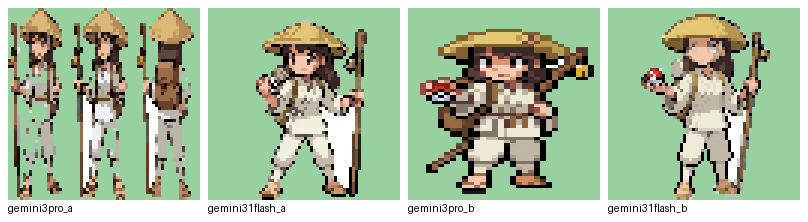
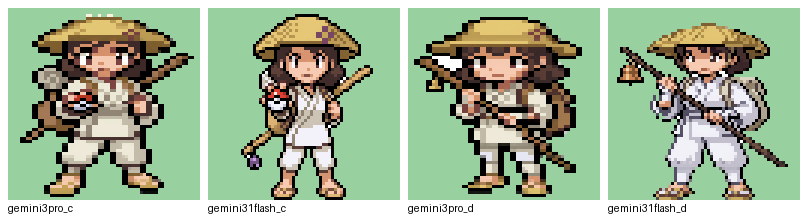
Ibuki's and the male pilgrim's sprites in the game; female pilgrim drafts round 2
Overworld: OBJ_EVENT_GFX_EIEN_IBUKI, _PILGRIM_M and _PILGRIM_F (recolored
megapack sheets, converted by tools/eien_npcs/convert.py; adding them
regrouped the four shared NPC palettes, with no visible change to the
other characters). Battle: TRAINER_PIC_EIEN_IBUKI and _PILGRIM_M (AI
drafts). Ibuki at the falls and in the gym, Daichi, Shizuka and the gym
guide, and Route 2's male pilgrims use them. Credits added. A second
round of female pilgrim battle drafts awaits a pick.

Claude-Session: https://claude.ai/code/session_01KEfQ3687BBFMv8bczkVuAH

diff --git a/src/data/object_events/object_event_graphics_info.h b/src/data/object_events/object_event_graphics_info.h
@@ -7248,7 +7248,7 @@ const struct ObjectEventGraphicsInfo gObjectEventGraphicsInfo_EienHaru = {
 // trainer_BIRDKEEPER.png (Bird Keeper: Spherical Ice)
 const struct ObjectEventGraphicsInfo gObjectEventGraphicsInfo_EienAkira = {
     .tileTag = TAG_NONE,
-    .paletteTag = OBJ_EVENT_PAL_TAG_EIEN_NPC_3,
+    .paletteTag = OBJ_EVENT_PAL_TAG_EIEN_NPC_4,
     .reflectionPaletteTag = OBJ_EVENT_PAL_TAG_NONE,
     .size = 256,
     .width = 16,
@@ -7267,7 +7267,7 @@ const struct ObjectEventGraphicsInfo gObjectEventGraphicsInfo_EienAkira = {
 // trainer_YOUNGCOUPLE_F.png (Young Couple: Kalarie)
 const struct ObjectEventGraphicsInfo gObjectEventGraphicsInfo_EienNami = {
     .tileTag = TAG_NONE,
-    .paletteTag = OBJ_EVENT_PAL_TAG_EIEN_NPC_4,
+    .paletteTag = OBJ_EVENT_PAL_TAG_EIEN_NPC_3,
     .reflectionPaletteTag = OBJ_EVENT_PAL_TAG_NONE,
     .size = 256,
     .width = 16,
@@ -7362,7 +7362,7 @@ const struct ObjectEventGraphicsInfo gObjectEventGraphicsInfo_EienFisherman = {
 // trainer_SAILOR.png (HGSS OWs in FR style: Delta231, Mimi, M.vit, Kimoras)
 const struct ObjectEventGraphicsInfo gObjectEventGraphicsInfo_EienSailor = {
     .tileTag = TAG_NONE,
-    .paletteTag = OBJ_EVENT_PAL_TAG_EIEN_NPC_3,
+    .paletteTag = OBJ_EVENT_PAL_TAG_EIEN_NPC_2,
     .reflectionPaletteTag = OBJ_EVENT_PAL_TAG_NONE,
     .size = 256,
     .width = 16,
@@ -7419,7 +7419,7 @@ const struct ObjectEventGraphicsInfo gObjectEventGraphicsInfo_EienSchoolboy = {
 // trainer_ACETRAINERSNOW_M.png (DPPt NPCs: artist not named in the pack readme)
 const struct ObjectEventGraphicsInfo gObjectEventGraphicsInfo_EienSnowTrainer = {
     .tileTag = TAG_NONE,
-    .paletteTag = OBJ_EVENT_PAL_TAG_EIEN_NPC_3,
+    .paletteTag = OBJ_EVENT_PAL_TAG_EIEN_NPC_2,
     .reflectionPaletteTag = OBJ_EVENT_PAL_TAG_NONE,
     .size = 256,
     .width = 16,
@@ -7476,7 +7476,7 @@ const struct ObjectEventGraphicsInfo gObjectEventGraphicsInfo_EienPokefanM = {
 // trainer_SOCIALITE.png (DPPt NPCs: artist not named in the pack readme)
 const struct ObjectEventGraphicsInfo gObjectEventGraphicsInfo_EienSocialite = {
     .tileTag = TAG_NONE,
-    .paletteTag = OBJ_EVENT_PAL_TAG_EIEN_NPC_4,
+    .paletteTag = OBJ_EVENT_PAL_TAG_EIEN_NPC_3,
     .reflectionPaletteTag = OBJ_EVENT_PAL_TAG_NONE,
     .size = 256,
     .width = 16,
@@ -7495,7 +7495,7 @@ const struct ObjectEventGraphicsInfo gObjectEventGraphicsInfo_EienSocialite = {
 // kaede_a_navy_coat.png (Anime NPC 07: Kalarie (first frames Pokésho), recolored)
 const struct ObjectEventGraphicsInfo gObjectEventGraphicsInfo_EienKaede = {
     .tileTag = TAG_NONE,
-    .paletteTag = OBJ_EVENT_PAL_TAG_EIEN_NPC_2,
+    .paletteTag = OBJ_EVENT_PAL_TAG_EIEN_NPC_1,
     .reflectionPaletteTag = OBJ_EVENT_PAL_TAG_NONE,
     .size = 256,
     .width = 16,
@@ -7528,5 +7528,62 @@ const struct ObjectEventGraphicsInfo gObjectEventGraphicsInfo_EienKaedeGrandmoth
     .subspriteTables = sOamTables_16x32,
     .anims = sAnimTable_Standard,
     .images = sPicTable_EienKaedeGrandmother,
+};
+
+// ibuki_b_blackbelt_tape.png (FRLG-style RSE NPCs: Poffin_Case (Black Belt, recolored))
+const struct ObjectEventGraphicsInfo gObjectEventGraphicsInfo_EienIbuki = {
+    .tileTag = TAG_NONE,
+    .paletteTag = OBJ_EVENT_PAL_TAG_EIEN_NPC_3,
+    .reflectionPaletteTag = OBJ_EVENT_PAL_TAG_NONE,
+    .size = 256,
+    .width = 16,
+    .height = 32,
+    .paletteSlot = PALSLOT_NPC_1,
+    .shadowSize = SHADOW_SIZE_M,
+    .inanimate = FALSE,
+    .compressed = FALSE,
+    .tracks = TRACKS_FOOT,
+    .oam = &gObjectEventBaseOam_16x32,
+    .subspriteTables = sOamTables_16x32,
+    .anims = sAnimTable_Standard,
+    .images = sPicTable_EienIbuki,
+};
+
+// pilgrim_m_b_ruinmaniac.png (FRLG-style RSE NPCs: Poffin_Case (Ruin Maniac, recolored))
+const struct ObjectEventGraphicsInfo gObjectEventGraphicsInfo_EienPilgrimM = {
+    .tileTag = TAG_NONE,
+    .paletteTag = OBJ_EVENT_PAL_TAG_EIEN_NPC_4,
+    .reflectionPaletteTag = OBJ_EVENT_PAL_TAG_NONE,
+    .size = 256,
+    .width = 16,
+    .height = 32,
+    .paletteSlot = PALSLOT_NPC_1,
+    .shadowSize = SHADOW_SIZE_M,
+    .inanimate = FALSE,
+    .compressed = FALSE,
+    .tracks = TRACKS_FOOT,
+    .oam = &gObjectEventBaseOam_16x32,
+    .subspriteTables = sOamTables_16x32,
+    .anims = sAnimTable_Standard,
+    .images = sPicTable_EienPilgrimM,
+};
+
+// pilgrim_f_a_picnicker.png (HGSS OWs in FR style: Delta231, Mimi, M.vit, Kimoras (Picnicker, recolored))
+const struct ObjectEventGraphicsInfo gObjectEventGraphicsInfo_EienPilgrimF = {
+    .tileTag = TAG_NONE,
+    .paletteTag = OBJ_EVENT_PAL_TAG_EIEN_NPC_3,
+    .reflectionPaletteTag = OBJ_EVENT_PAL_TAG_NONE,
+    .size = 256,
+    .width = 16,
+    .height = 32,
+    .paletteSlot = PALSLOT_NPC_1,
+    .shadowSize = SHADOW_SIZE_M,
+    .inanimate = FALSE,
+    .compressed = FALSE,
+    .tracks = TRACKS_FOOT,
+    .oam = &gObjectEventBaseOam_16x32,
+    .subspriteTables = sOamTables_16x32,
+    .anims = sAnimTable_Standard,
+    .images = sPicTable_EienPilgrimF,
 };
 // Eien NPCs END

diff --git a/src/data/graphics/trainers.h b/src/data/graphics/trainers.h
@@ -479,6 +479,10 @@ const u32 gTrainerFrontPic_EienAkira[] = INCGFX_U32("graphics/trainers/front_pic
 const u16 gTrainerPalette_EienAkira[] = INCGFX_U16("graphics/trainers/palettes/eien_akira.pal", ".gbapal");
 const u32 gTrainerFrontPic_EienFuyumi[] = INCGFX_U32("graphics/trainers/front_pics/eien_fuyumi.png", ".4bpp.smol");
 const u16 gTrainerPalette_EienFuyumi[] = INCGFX_U16("graphics/trainers/palettes/eien_fuyumi.pal", ".gbapal");
+const u32 gTrainerFrontPic_EienIbuki[] = INCGFX_U32("graphics/trainers/front_pics/eien_ibuki.png", ".4bpp.smol");
+const u16 gTrainerPalette_EienIbuki[] = INCGFX_U16("graphics/trainers/palettes/eien_ibuki.pal", ".gbapal");
+const u32 gTrainerFrontPic_EienPilgrimM[] = INCGFX_U32("graphics/trainers/front_pics/eien_pilgrim_m.png", ".4bpp.smol");
+const u16 gTrainerPalette_EienPilgrimM[] = INCGFX_U16("graphics/trainers/palettes/eien_pilgrim_m.pal", ".gbapal");
 
 static const u8 gTrainerBackPic_None[] = INCGFX_U8("graphics/trainers/back_pics/none.png", ".4bpp");
 const u8 gTrainerBackPic_Brendan[] = INCGFX_U8("graphics/trainers/back_pics/brendan.png", ".4bpp");
@@ -1253,5 +1257,13 @@ const struct TrainerPicInfo gTrainerPicInfo[TRAINER_PIC_COUNT] =
     [TRAINER_PIC_EIEN_FUYUMI] =
     {
         .frontPic = TRAINER_FRONT_PIC(gTrainerFrontPic_EienFuyumi, gTrainerPalette_EienFuyumi),
+    },
+    [TRAINER_PIC_EIEN_IBUKI] =
+    {
+        .frontPic = TRAINER_FRONT_PIC(gTrainerFrontPic_EienIbuki, gTrainerPalette_EienIbuki),
+    },
+    [TRAINER_PIC_EIEN_PILGRIM_M] =
+    {
+        .frontPic = TRAINER_FRONT_PIC(gTrainerFrontPic_EienPilgrimM, gTrainerPalette_EienPilgrimM),
     },
 };

diff --git a/src/data/object_events/object_event_graphics_info_pointers.h b/src/data/object_events/object_event_graphics_info_pointers.h
@@ -418,6 +418,9 @@ extern const struct ObjectEventGraphicsInfo gObjectEventGraphicsInfo_EienPokefan
 extern const struct ObjectEventGraphicsInfo gObjectEventGraphicsInfo_EienSocialite;
 extern const struct ObjectEventGraphicsInfo gObjectEventGraphicsInfo_EienKaede;
 extern const struct ObjectEventGraphicsInfo gObjectEventGraphicsInfo_EienKaedeGrandmother;
+extern const struct ObjectEventGraphicsInfo gObjectEventGraphicsInfo_EienIbuki;
+extern const struct ObjectEventGraphicsInfo gObjectEventGraphicsInfo_EienPilgrimM;
+extern const struct ObjectEventGraphicsInfo gObjectEventGraphicsInfo_EienPilgrimF;
 // Eien NPCs externs END
 
 const struct ObjectEventGraphicsInfo *const gObjectEventGraphicsInfoPointers[NUM_OBJ_EVENT_GFX] = {
@@ -826,6 +829,9 @@ const struct ObjectEventGraphicsInfo *const gObjectEventGraphicsInfoPointers[NUM
     [OBJ_EVENT_GFX_EIEN_SOCIALITE] = &gObjectEventGraphicsInfo_EienSocialite,
     [OBJ_EVENT_GFX_EIEN_KAEDE] = &gObjectEventGraphicsInfo_EienKaede,
     [OBJ_EVENT_GFX_EIEN_KAEDE_GRANDMOTHER] = &gObjectEventGraphicsInfo_EienKaedeGrandmother,
+    [OBJ_EVENT_GFX_EIEN_IBUKI] = &gObjectEventGraphicsInfo_EienIbuki,
+    [OBJ_EVENT_GFX_EIEN_PILGRIM_M] = &gObjectEventGraphicsInfo_EienPilgrimM,
+    [OBJ_EVENT_GFX_EIEN_PILGRIM_F] = &gObjectEventGraphicsInfo_EienPilgrimF,
 // Eien NPCs END
 
 };

diff --git a/tools/eien_npcs/trainer_pic_drafts.py b/tools/eien_npcs/trainer_pic_drafts.py
@@ -115,9 +115,11 @@ CHARACTERS = {
             "sandals, a cloth pack on her back, and a wooden staff with a small bell. Calm and "
             "focused. "
         ),
+        # Round 2 (c, d): round 1's a and b drew several views at once or left background gaps
+        # between the staff and the figure.
         "poses": {
-            "a": "Pose: standing firm, the staff planted upright in one hand, the other hand in a fist, ready to battle.",
-            "b": "Pose: holding a Poké Ball out toward the viewer, the staff resting against her shoulder.",
+            "c": "Pose: a single front view of one figure. She holds a Poké Ball out toward the viewer with one hand; the staff is strapped flat across her back, close to her body, its ends showing behind her shoulders.",
+            "d": "Pose: a single front view of one figure. Both hands grip the staff, held diagonally and close against her body, ready to battle; no gaps between the staff and her arms.",
         },
     },
 }

diff --git a/src/data/object_events/object_event_graphics.h b/src/data/object_events/object_event_graphics.h
@@ -654,4 +654,7 @@ const u32 gObjectEventPic_EienPokefanM[] = INCGFX_U32("graphics/object_events/pi
 const u32 gObjectEventPic_EienSocialite[] = INCGFX_U32("graphics/object_events/pics/people/eien/socialite.png", ".4bpp", "-mwidth 2 -mheight 4");
 const u32 gObjectEventPic_EienKaede[] = INCGFX_U32("graphics/object_events/pics/people/eien/kaede.png", ".4bpp", "-mwidth 2 -mheight 4");
 const u32 gObjectEventPic_EienKaedeGrandmother[] = INCGFX_U32("graphics/object_events/pics/people/eien/kaede_grandmother.png", ".4bpp", "-mwidth 2 -mheight 4");
+const u32 gObjectEventPic_EienIbuki[] = INCGFX_U32("graphics/object_events/pics/people/eien/ibuki.png", ".4bpp", "-mwidth 2 -mheight 4");
+const u32 gObjectEventPic_EienPilgrimM[] = INCGFX_U32("graphics/object_events/pics/people/eien/pilgrim_m.png", ".4bpp", "-mwidth 2 -mheight 4");
+const u32 gObjectEventPic_EienPilgrimF[] = INCGFX_U32("graphics/object_events/pics/people/eien/pilgrim_f.png", ".4bpp", "-mwidth 2 -mheight 4");
 // Eien NPCs END

diff --git a/tools/eien_npcs/convert.py b/tools/eien_npcs/convert.py
@@ -61,6 +61,13 @@ CHARACTERS = [
      "Anime NPC 07: Kalarie (first frames Pokésho), recolored"),
     ("KAEDE_GRANDMOTHER", "kaede_grandmother",
      os.path.join(REPO, "design/art/eien_kaede/drafts/grandparent_b_medium_shrine.png"), HGSS + " (Medium, recolored)"),
+    # Recolors for gym 2 (tools/eien_npcs/ibuki_drafts.py, design/art/eien_ibuki/)
+    ("IBUKI", "ibuki", os.path.join(REPO, "design/art/eien_ibuki/ow_drafts/ibuki_b_blackbelt_tape.png"),
+     RSE + " (Black Belt, recolored)"),
+    ("PILGRIM_M", "pilgrim_m", os.path.join(REPO, "design/art/eien_ibuki/ow_drafts/pilgrim_m_b_ruinmaniac.png"),
+     RSE + " (Ruin Maniac, recolored)"),
+    ("PILGRIM_F", "pilgrim_f", os.path.join(REPO, "design/art/eien_ibuki/ow_drafts/pilgrim_f_a_picnicker.png"),
+     HGSS + " (Picnicker, recolored)"),
 ]
 
 

diff --git a/src/data/object_events/object_event_pic_tables.h b/src/data/object_events/object_event_pic_tables.h
@@ -2558,4 +2558,16 @@ static const struct SpriteFrameImage sPicTable_EienKaede[] = {
 static const struct SpriteFrameImage sPicTable_EienKaedeGrandmother[] = {
     overworld_ascending_frames(gObjectEventPic_EienKaedeGrandmother, 2, 4),
 };
+
+static const struct SpriteFrameImage sPicTable_EienIbuki[] = {
+    overworld_ascending_frames(gObjectEventPic_EienIbuki, 2, 4),
+};
+
+static const struct SpriteFrameImage sPicTable_EienPilgrimM[] = {
+    overworld_ascending_frames(gObjectEventPic_EienPilgrimM, 2, 4),
+};
+
+static const struct SpriteFrameImage sPicTable_EienPilgrimF[] = {
+    overworld_ascending_frames(gObjectEventPic_EienPilgrimF, 2, 4),
+};
 // Eien NPCs END

diff --git a/include/constants/event_objects.h b/include/constants/event_objects.h
@@ -430,6 +430,9 @@ enum
     OBJ_EVENT_GFX_EIEN_SOCIALITE,
     OBJ_EVENT_GFX_EIEN_KAEDE,
     OBJ_EVENT_GFX_EIEN_KAEDE_GRANDMOTHER,
+    OBJ_EVENT_GFX_EIEN_IBUKI,
+    OBJ_EVENT_GFX_EIEN_PILGRIM_M,
+    OBJ_EVENT_GFX_EIEN_PILGRIM_F,
 // Eien NPCs END
     NUM_OBJ_EVENT_GFX,
 };

diff --git a/include/constants/trainers.h b/include/constants/trainers.h
@@ -181,6 +181,8 @@ enum __attribute__((packed)) TrainerPicID
     TRAINER_PIC_EIEN_KAEDE_GRANDMOTHER,
     TRAINER_PIC_EIEN_AKIRA,
     TRAINER_PIC_EIEN_FUYUMI,
+    TRAINER_PIC_EIEN_IBUKI,
+    TRAINER_PIC_EIEN_PILGRIM_M,
     TRAINER_PIC_COUNT,
 };
 

diff --git a/design/asset-credits.md b/design/asset-credits.md
@@ -14,12 +14,16 @@ license allows use in a free fan game before importing.
 | Overworld character: Kaede (`OBJ_EVENT_GFX_EIEN_KAEDE`) | Overworld sprite, recolored by us (`tools/eien_npcs/kaede_drafts.py`) | Kalarie (Anime NPC 07), first frames by Pokésho; compiled by SoulfulLex | same pack | Credit the original spriters |
 | Overworld character: Kaede's grandmother (`OBJ_EVENT_GFX_EIEN_KAEDE_GRANDMOTHER`) | Overworld sprite, recolored by us | Delta231, Mimi, M.vit, Kimoras (HGSS Medium); compiled by SoulfulLex | same pack | Credit the original spriters |
 | Overworld characters: village woman, schoolboy, Pokéfan | Overworld sprites | Poffin_Case (FRLG-style RSE NPCs); compiled by SoulfulLex | same pack | Credit the original spriters |
+| Overworld characters: Ibuki, male pilgrim (`OBJ_EVENT_GFX_EIEN_IBUKI`, `_PILGRIM_M`) | Overworld sprites, recolored by us (`tools/eien_npcs/ibuki_drafts.py`) | Poffin_Case (FRLG-style RSE Black Belt, Ruin Maniac); compiled by SoulfulLex | same pack | Credit the original spriters |
+| Overworld character: female pilgrim (`OBJ_EVENT_GFX_EIEN_PILGRIM_F`) | Overworld sprite, recolored by us | Delta231, Mimi, M.vit, Kimoras (HGSS Picnicker); compiled by SoulfulLex | same pack | Credit the original spriters |
 | Overworld characters: snow trainer, worker, socialite | Overworld sprites | `TODO`: artist not named in the pack readme (DPPt set); compiled by SoulfulLex | same pack | Credit the original spriters; ask SoulfulLex who drew these |
 | Kaede's battle sprite (`graphics/trainers/front_pics/eien_kaede.png`, `TRAINER_PIC_EIEN_KAEDE`) | Trainer front picture | AI draft (Google Gemini 3 Pro), using FRLG's Channeler (Game Freak) as the style reference and her overworld sprite for the design | - | AI-assisted |
 | Kaede's back sprite (`graphics/trainers/back_pics/eien_kaede.png`, on `TRAINER_PIC_EIEN_KAEDE`) | Trainer back sprite (4 frames) | AI draft (Google Gemini 3 Pro), using Steven's back frames (Game Freak) as the pose reference and her battle sprite for the design | - | AI-assisted |
 | Kaede's grandmother's battle sprite (`graphics/trainers/front_pics/eien_kaede_grandmother.png`, `TRAINER_PIC_EIEN_KAEDE_GRANDMOTHER`) | Trainer front picture | AI draft (Google Gemini 3.1 Flash), using Emerald's Expert F (Game Freak) as the style reference and her overworld sprite for the design | - | AI-assisted |
 | Akira's battle sprite (`graphics/trainers/front_pics/eien_akira.png`, `TRAINER_PIC_EIEN_AKIRA`) | Trainer front picture | AI draft (Google Gemini 3.1 Flash), using FRLG's Youngster (Game Freak) as the style reference and his overworld sprite for the design | - | AI-assisted |
 | Fuyumi's battle sprite (`graphics/trainers/front_pics/eien_fuyumi.png`, `TRAINER_PIC_EIEN_FUYUMI`) | Trainer front picture | AI draft (Google Gemini 3 Pro), using Emerald's Cooltrainer F (Game Freak) as the style reference and her overworld sprite for the design | - | AI-assisted |
+| Ibuki's battle sprite (`graphics/trainers/front_pics/eien_ibuki.png`, `TRAINER_PIC_EIEN_IBUKI`) | Trainer front picture | AI draft (Google Gemini 3 Pro), using Emerald's Brawly (Game Freak) and our Fuyumi pic as style references and his overworld sprite for the design | - | AI-assisted |
+| Male pilgrim's battle sprite (`graphics/trainers/front_pics/eien_pilgrim_m.png`, `TRAINER_PIC_EIEN_PILGRIM_M`) | Trainer front picture | AI draft (Google Gemini 3 Pro), using Emerald's Black Belt (Game Freak) as the style reference and his overworld sprite for the design | - | AI-assisted |
 | Hero battle sprites' hair (`graphics/trainers/front_pics/brendan.png`, `back_pics/brendan.png`) | Player battle sprites | AI draft (Google Gemini 3 Pro) edited onto Game Freak's Brendan sprites, merged by `tools/eien_hero/redraw_hair.py` | - | AI-assisted |
 | Eien Poochyena test sprites (`design/art/eien_poochyena/`) | Sprite workflow test, not in game | AI-generated with Google Gemini (gemini-3-pro-image, gemini-3.1-flash-image) from Game Freak's Poochyena sprite, converted with `tools/sprite_prep` | - | AI-generated; based on an existing Pokémon sprite |
 | Eien species sprites in game (`graphics/pokemon/eien/`: the starters, their middle stages, Eien Poochyena and Mightyena) | Pokémon front, back and idle frames, icons | AI drafts (Google Gemini 3 Pro / 3.1 Flash image models) redrawn from Game Freak's sprites of the same species, picked and converted with `tools/eien_species/` (notes in `design/art/eien_*`). Placeholder backs are Game Freak's backs recolored | - | AI-generated; based on existing Pokémon sprites |

diff --git a/design/characters.md b/design/characters.md
@@ -171,9 +171,9 @@ Gen 3 style, from the FRLG-style NPC megapack, converted by `tools/eien_npcs/` (
 | Kaede (battle) | `TRAINER_PIC_EIEN_KAEDE`: AI drafts, arms crossed (front) and a 4-frame throw from behind (back, for tag battles) (`design/art/eien_kaede/`) |
 | Chiyo, Kaede's grandmother (battle) | `TRAINER_PIC_EIEN_KAEDE_GRANDMOTHER`: an AI draft with a walking stick; ready if she ever battles (the design doesn't give her a battle yet) |
 | Chiyo, Kaede's grandmother | `OBJ_EVENT_GFX_EIEN_KAEDE_GRANDMOTHER`: the HGSS Medium in shrine colors (white robe, purple hakama) |
-| Ibuki | Planned ([brainstorm-ibuki-sprites.md](brainstorm-ibuki-sprites.md)): a megapack sheet recolored to his colors (off-white gi, dark brown belt and beads, faded red wrist tape, dark hair with grey); the same sprite under the falls. Vanilla Black Belt stand-in now |
-| Ibuki (battle) | Planned: AI drafts, a fighting stance with one open palm forward; Brawly as the pose and framing reference, Fuyumi's pic as a second reference so the Eien leaders match. Black Belt stand-in now |
-| Pilgrims (male, female) | Planned: two megapack sheets recolored: white travel clothes, a wide straw hat, a staff with a small bell, straw sandals, a cloth pack. The retired-pilgrim gym guide uses the male one. Battle pics as AI drafts (Black Belt and Battle Girl as references). Stand-ins now: Black Belt, Battle Girl |
+| Ibuki | `OBJ_EVENT_GFX_EIEN_IBUKI`: the RSE Black Belt recolored ([brainstorm-ibuki-sprites.md](brainstorm-ibuki-sprites.md)): the headband turned to tied-back hair, dark with grey; off-white gi, dark brown belt, faded red wrist tape. The same sprite under the falls (`design/art/eien_ibuki/`) |
+| Ibuki (battle) | `TRAINER_PIC_EIEN_IBUKI`: an AI draft, a fighting stance with one open palm forward, hair in a topknot, prayer beads, red wrist tape (Brawly and Fuyumi's pic as references) |
+| Pilgrims (male, female) | `OBJ_EVENT_GFX_EIEN_PILGRIM_M` (the RSE Ruin Maniac recolored) and `_PILGRIM_F` (the HGSS Picnicker recolored): white travel clothes, a wide straw hat, a cloth pack (no staff on the small sprites). The retired-pilgrim gym guide uses the male one. Battle: `TRAINER_PIC_EIEN_PILGRIM_M` (an AI draft: staff with a bell, fist raised); the female pic is `TODO` (second round of drafts), Battle Girl until then |
 | Celebi | `OBJ_EVENT_GFX_SPECIES(CELEBI)` (engine) |
 | Hamakaze townsfolk | `OBJ_EVENT_GFX_EIEN_FISHERMAN`, `_SAILOR`, `_VILLAGE_WOMAN`, `_SCHOOLBOY` |
 | Shimotsuki townsfolk | `OBJ_EVENT_GFX_EIEN_SNOW_TRAINER`, `_WORKER`, `_POKEFAN_M`, `_SOCIALITE` |
